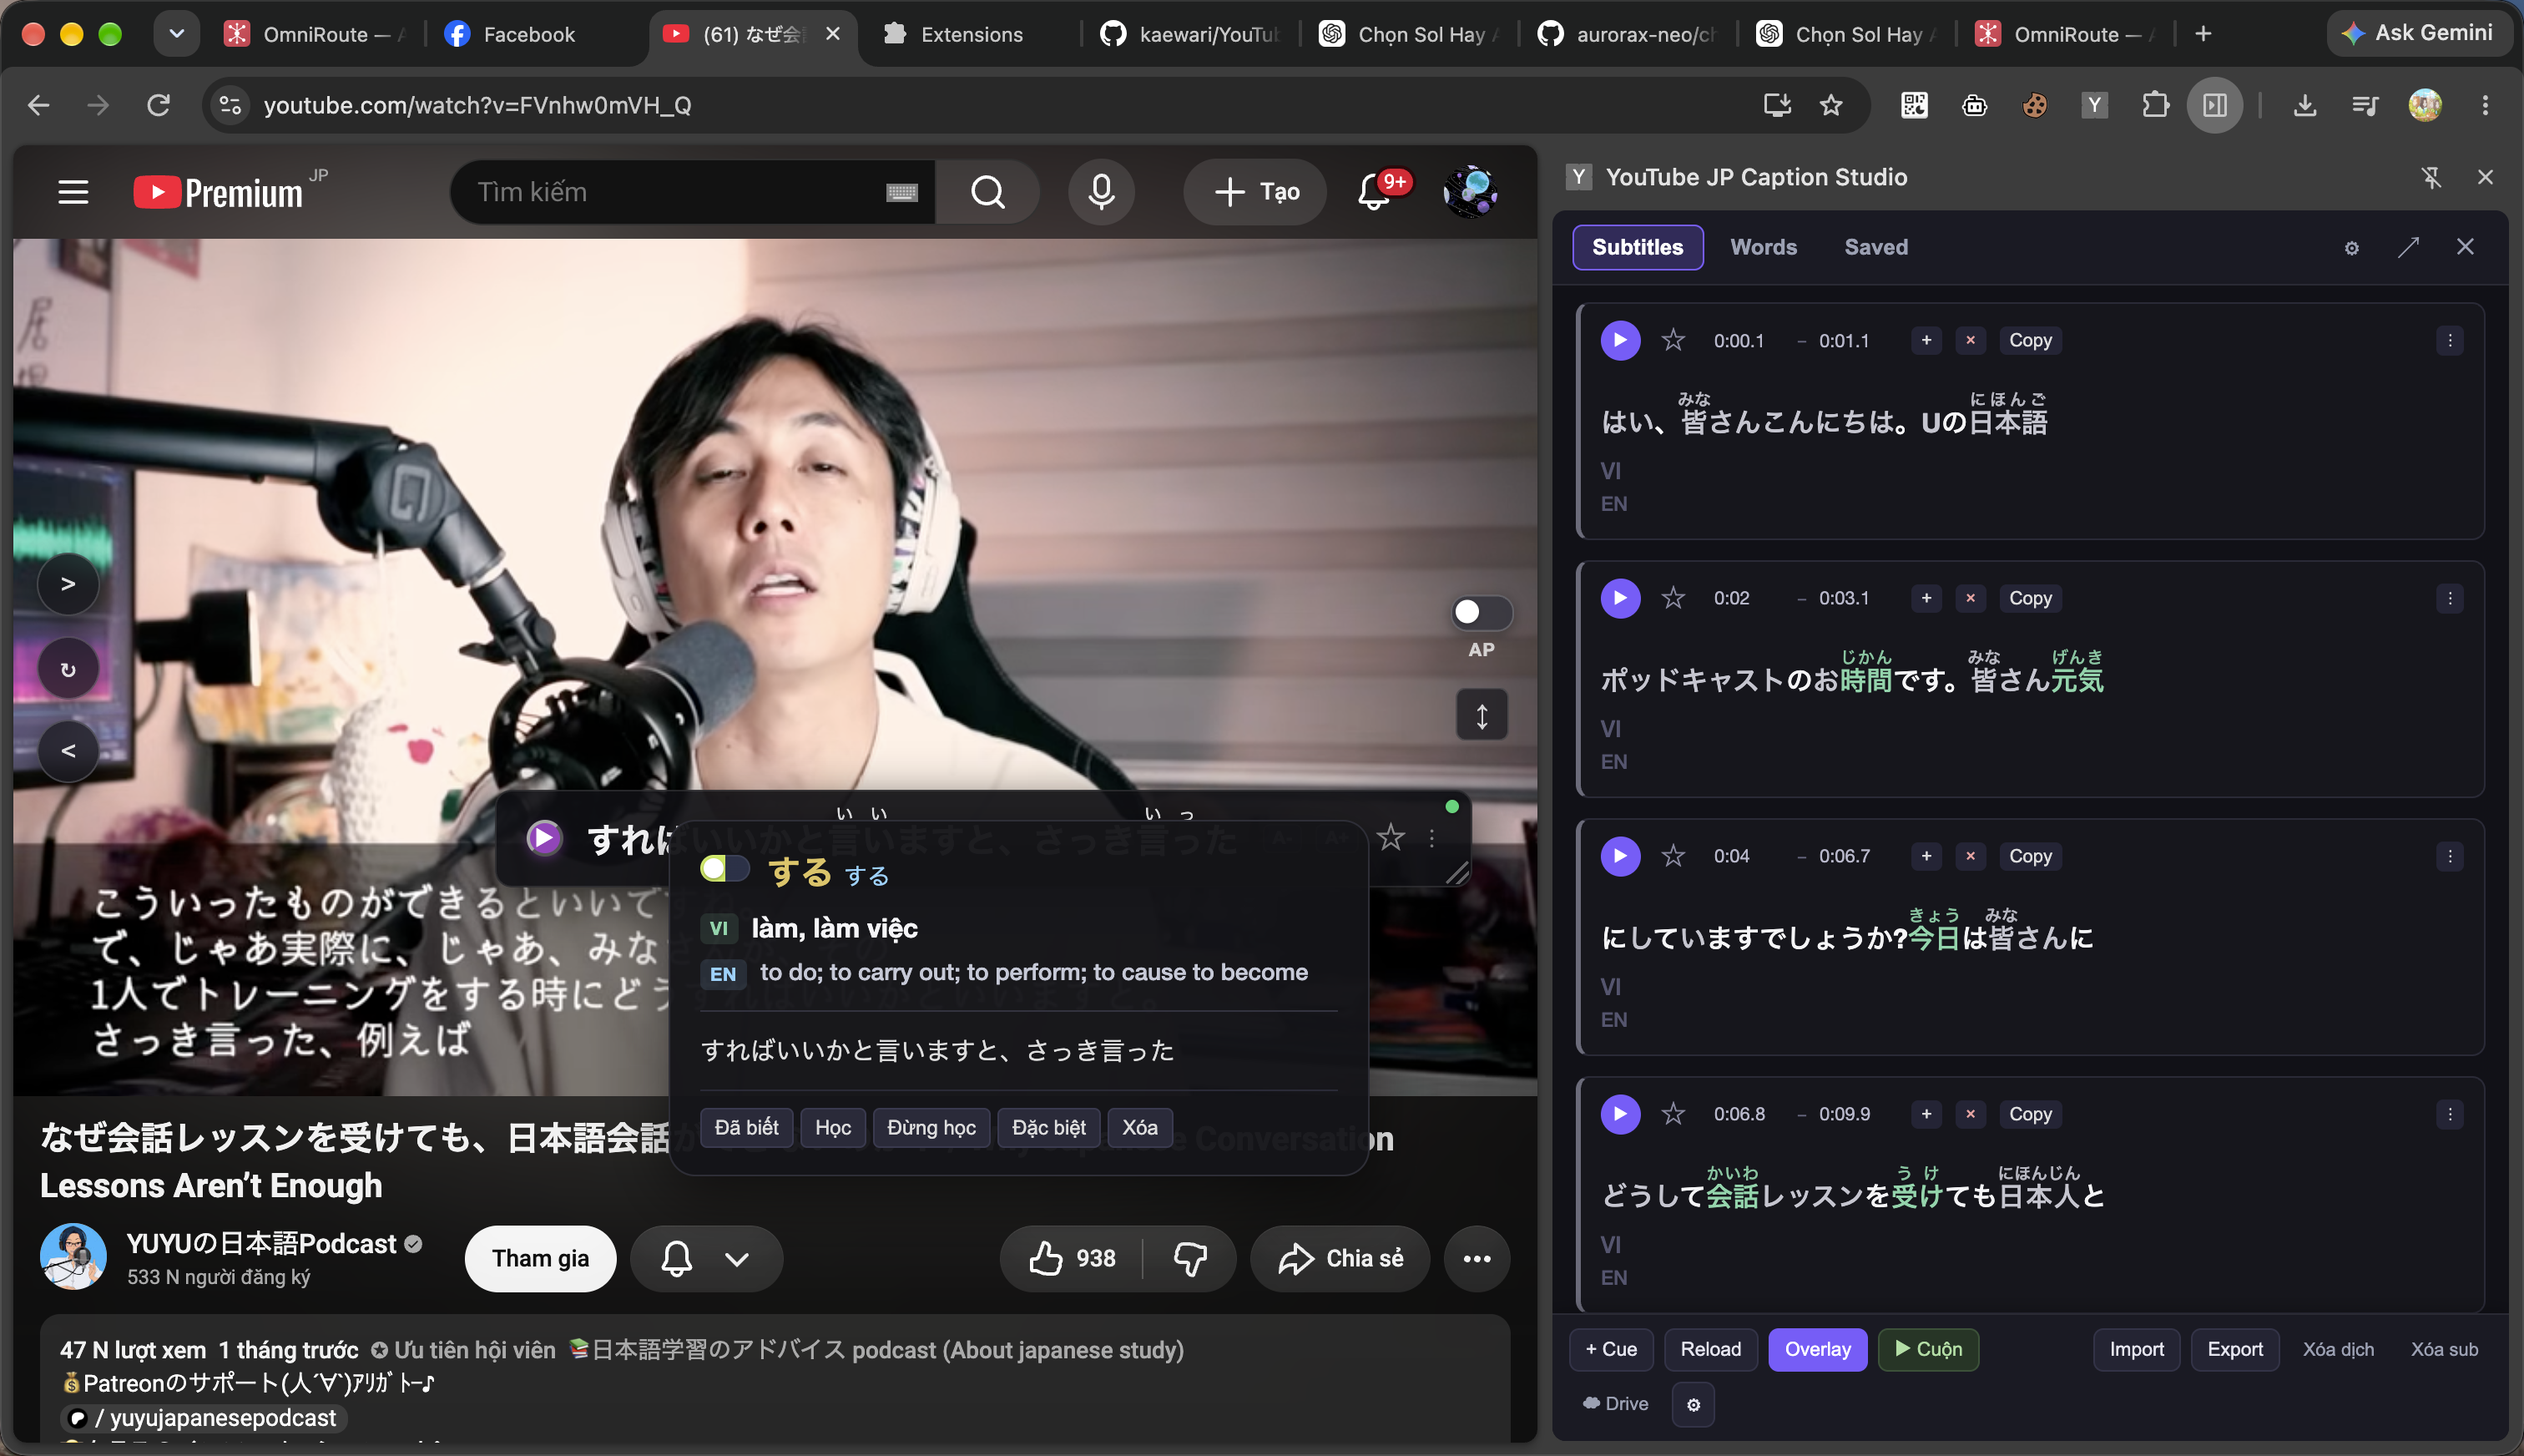
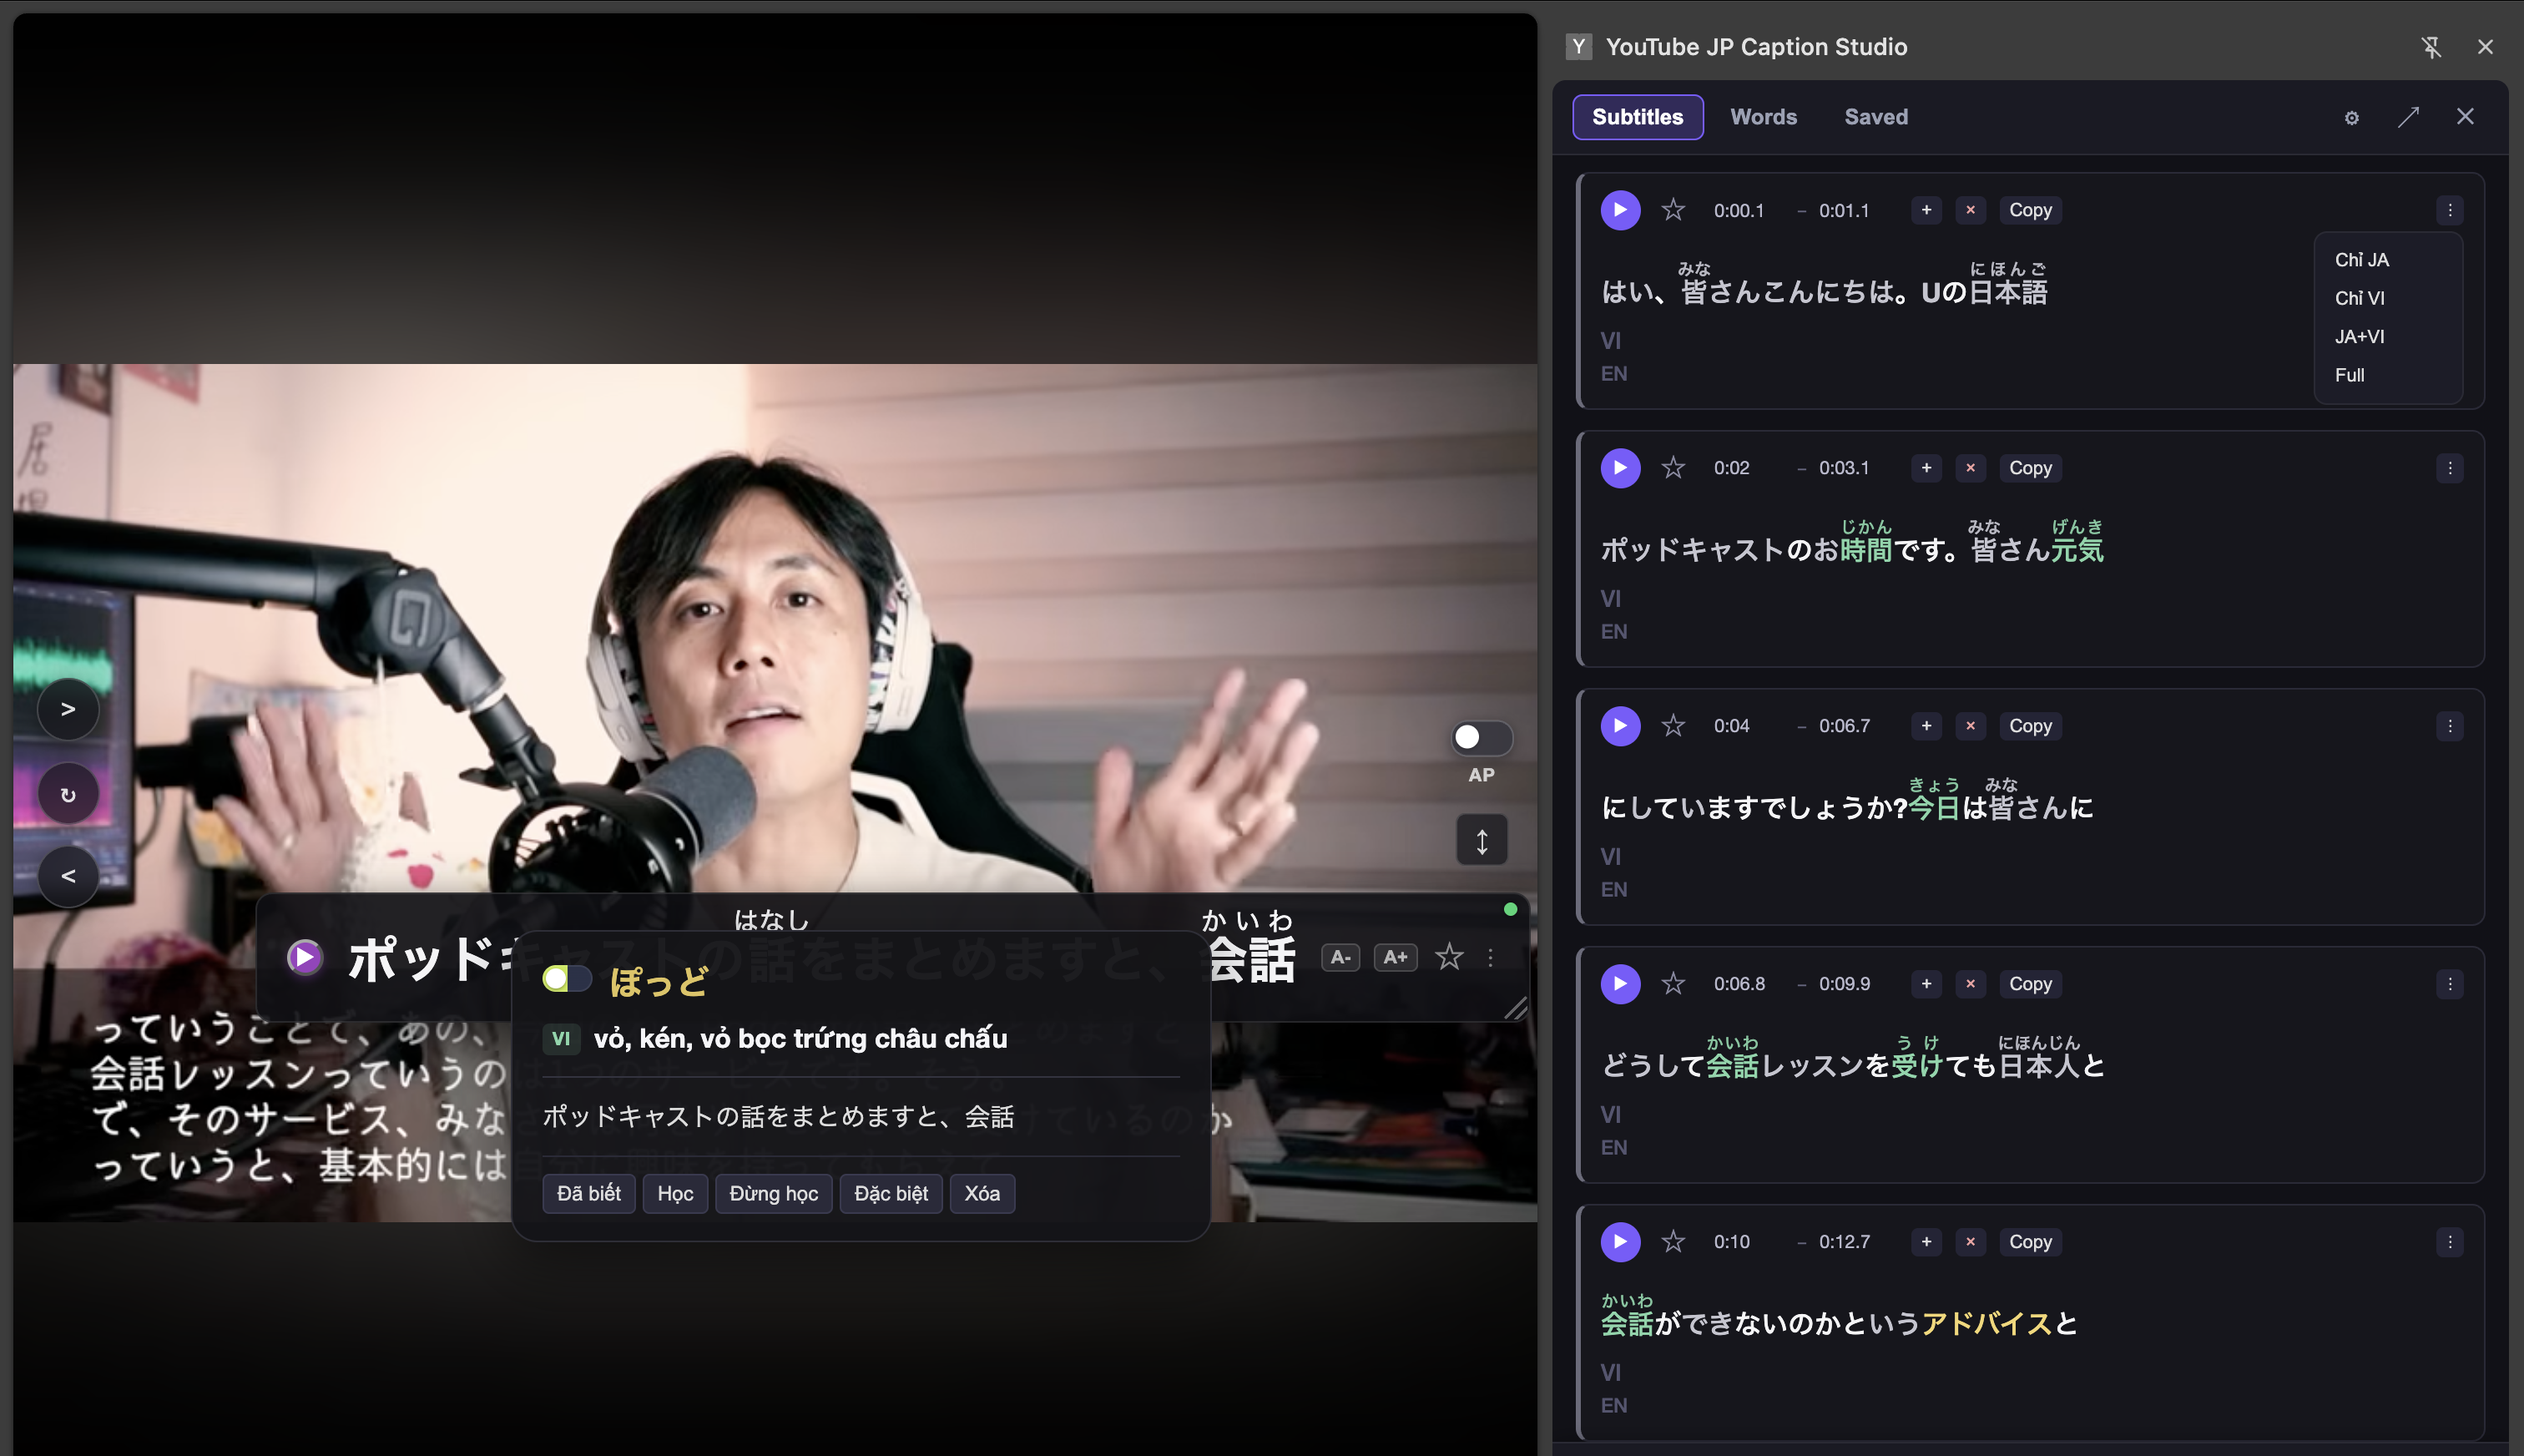
test(mouse): add dynamic screen calibration and update live QA evidence screenshots

diff --git a/scripts/test_mouse_all_actions.js b/scripts/test_mouse_all_actions.js
@@ -17,12 +17,31 @@ function sleep(ms) {
   return new Promise((r) => setTimeout(r, ms));
 }
 
-// Convert webpage client coordinates to macOS screen coordinates
-// Based on empirical window measurements: screenX = clientX + 8, screenY = clientY + 120
+let screenOffset = { offsetX: 8, offsetY: 41 };
+
+function calibrateScreenOffset() {
+  runChromeJs(`(() => {
+    window.__probe = null;
+    window.addEventListener("mousemove", e => { window.__probe = { cx: e.clientX, cy: e.clientY }; }, { once: true });
+  })()`);
+  execSync('osascript -e \'tell application "Google Chrome" to activate\'');
+  execSync('python3 scripts/mouse.py move 500 300');
+  try {
+    const probe = JSON.parse(runChromeJs('JSON.stringify(window.__probe)'));
+    if (probe && probe.cx != null) {
+      screenOffset = {
+        offsetX: 500 - probe.cx,
+        offsetY: 300 - probe.cy
+      };
+    }
+  } catch (_) {}
+  console.log(`Calibrated screen offset: (${screenOffset.offsetX}, ${screenOffset.offsetY})`);
+}
+
 function toScreen(clientPt) {
   return {
-    x: Math.round(clientPt.x + 8),
-    y: Math.round(clientPt.y + 120),
+    x: Math.round(clientPt.x + screenOffset.offsetX),
+    y: Math.round(clientPt.y + screenOffset.offsetY),
   };
 }
 
@@ -30,6 +49,8 @@ async function main() {
   console.log("===============================================================");
   console.log("NATIVE MOUSE QA: CLICK, KÉO THẢ (DRAG), GIỮ (HOLD), HOVER");
   console.log("===============================================================\n");
+
+  calibrateScreenOffset();
 
   // Verify Chrome connection & pause video to keep layout static
   runChromeJs('document.querySelector("video").pause()');
